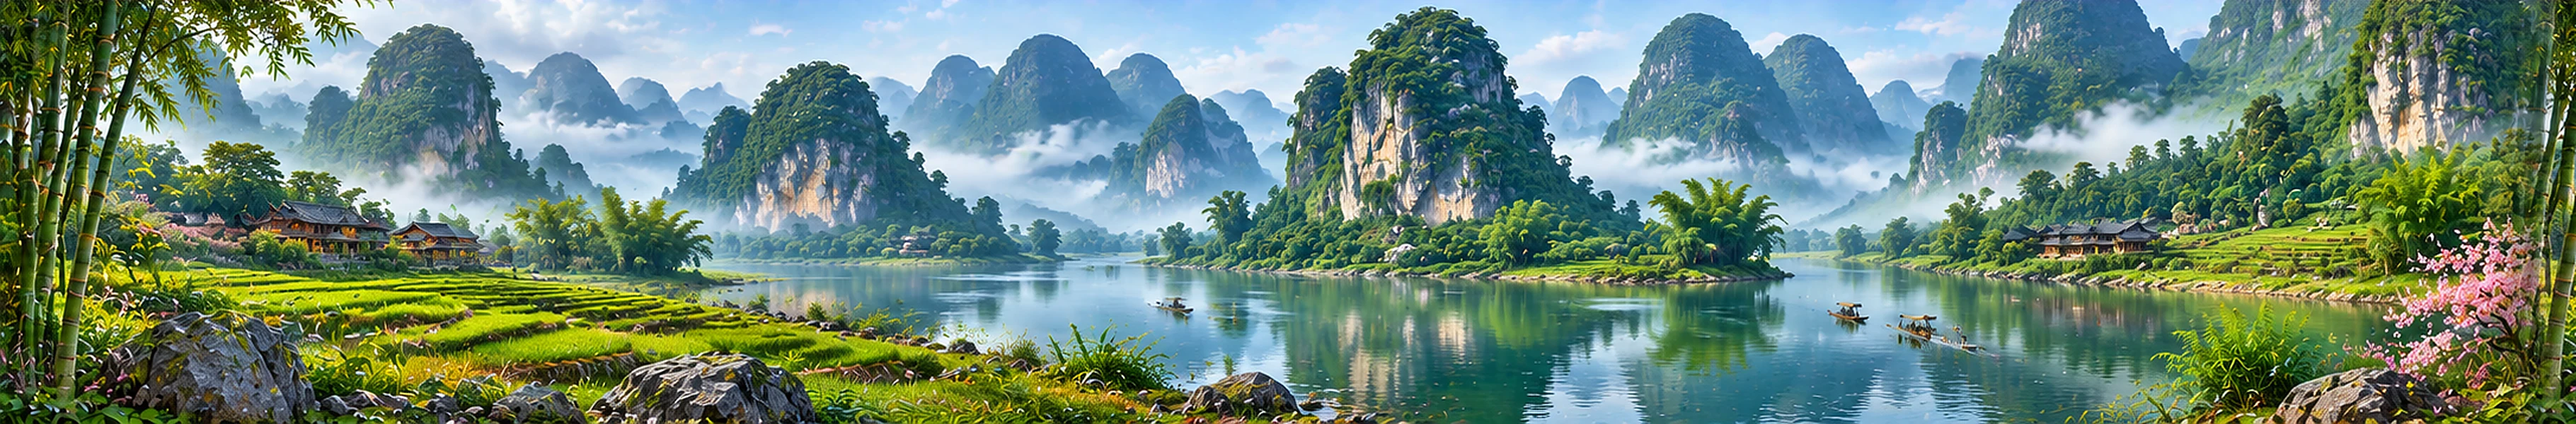
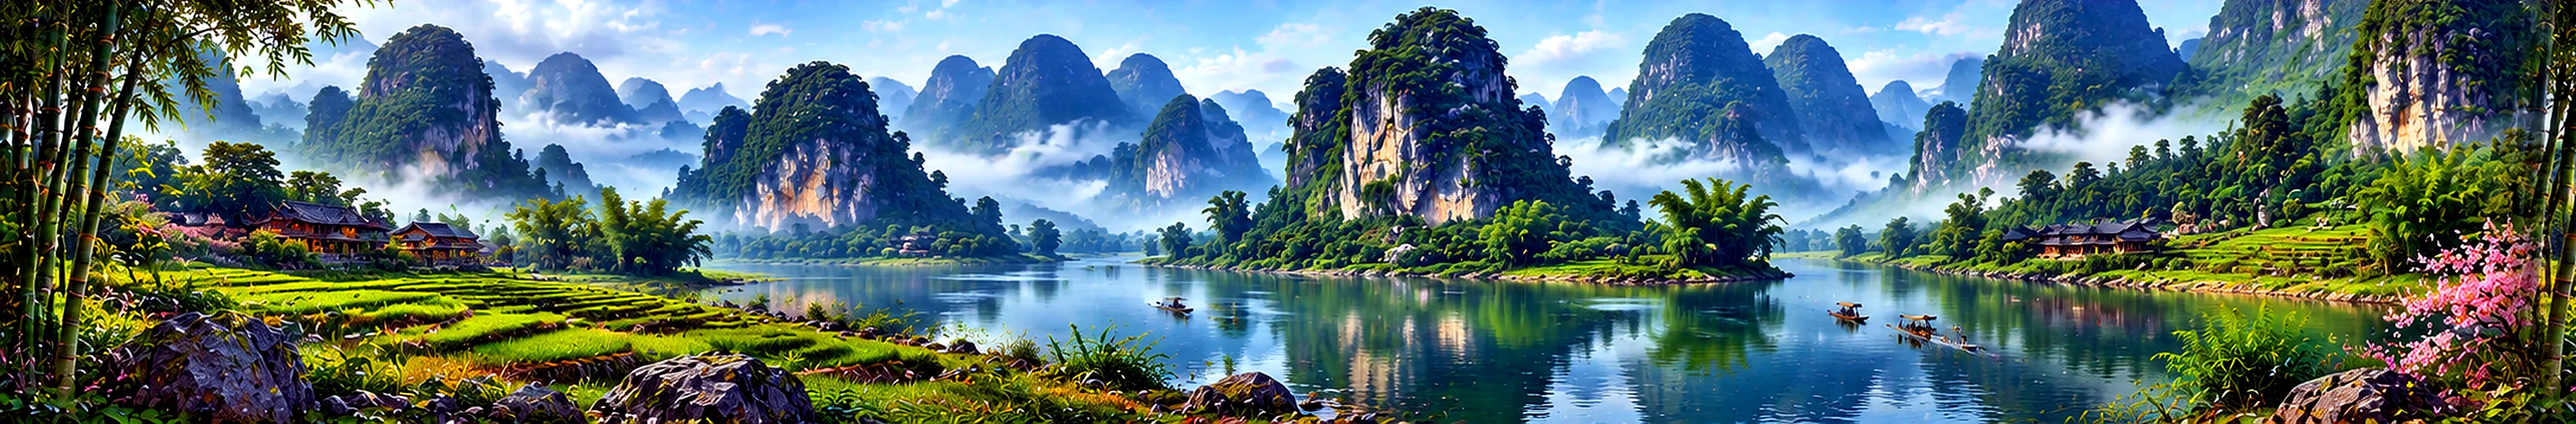
Guilin: niebla más suave e intermitente (versión 25-11 22:30)
Claude-Session: https://claude.ai/code/session_011wgPnxPqeZkvhkfnsa556N

diff --git a/www/index.html b/www/index.html
@@ -332,7 +332,7 @@ html,body{width:100%;height:100%;overflow:hidden;background:#111;font-family:'Nu
 </div>
 
 <div id="loader"><img class="ldLogo" src="img/ui/logo.webp" alt=""><div class="ldBar"><div id="ldFill"></div></div><div id="ldPct">0 %</div><div id="ldTip"></div></div>
-<div id="title" class="hidden"><img class="tlogo" src="img/ui/logo.webp" alt="Gear Up! Garage Racing"><button class="btn green" id="titlePlay">▶ JUGAR</button><div class="tsub">Taller · 24 vehículos · 22 mapas · modo Trial · versión 25-11 22:00</div></div>
+<div id="title" class="hidden"><img class="tlogo" src="img/ui/logo.webp" alt="Gear Up! Garage Racing"><button class="btn green" id="titlePlay">▶ JUGAR</button><div class="tsub">Taller · 24 vehículos · 22 mapas · modo Trial · versión 25-11 22:30</div></div>
 <div id="menu" class="screen hidden"></div>
 <div id="overlay" class="overlay hidden"><div class="box" id="ovBox"></div></div>
 
@@ -1897,9 +1897,11 @@ function drawFx(){
   if (fx === 'fog' || fx === 'sandstorm') {
     const cx = wx(car.x), col = fx === 'fog' ? '235,240,245' : map.id === 'marte' ? '200,100,60' : '225,190,120';
     const g = ctx.createLinearGradient(cx + 2 * cam.s, 0, cx + 11 * cam.s, 0);
-    g.addColorStop(0, `rgba(${col},0)`); g.addColorStop(1, `rgba(${col},${fx === 'fog' ? 0.85 : 0.5})`);
+    // la niebla va y viene en bancos (antes era fija y muy blanca: el mapa se veía casi borrado)
+    const fk = fx === 'fog' ? 0.35 + 0.65 * (0.5 + 0.5 * Math.sin(run.t * 0.11 + 1.3) * Math.sin(run.t * 0.043 + 0.4)) : 1;
+    g.addColorStop(0, `rgba(${col},0)`); g.addColorStop(1, `rgba(${col},${(fx === 'fog' ? 0.6 : 0.5) * fk})`);
     ctx.fillStyle = g; ctx.fillRect(0, 0, W, Hh);
-    ctx.fillStyle = `rgba(${col},${fx === 'fog' ? 0.16 : 0.08})`; ctx.fillRect(0, 0, W, Hh);
+    ctx.fillStyle = `rgba(${col},${(fx === 'fog' ? 0.05 : 0.08) * fk})`; ctx.fillRect(0, 0, W, Hh);
   }
   if (fx === 'night') {
     const cx = wx(car.x + 3), cy = wy(car.y);
